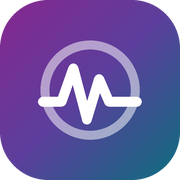
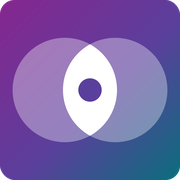
Adopt the new brand kit across the site
Replaces the mark in the header of all eight pages with the Venn logo, the two
overlapping circles of the tracks with the shared core, and swaps the favicon,
the touch icon and the app icon for the versions from the kit. The social
preview image is rebuilt around the horizontal logo. Adds vbd-brand-kit/ to the
repository so that everyone has the source files for slides and social profiles.

diff --git a/index.html b/index.html
@@ -244,16 +244,13 @@
 <header class="site-header">
   <nav class="container nav" aria-label="Main">
     <a class="brand" href="index.html">
-      <svg class="brand__mark" viewBox="0 0 40 40" role="img" aria-label="Vision for Biomedical Discovery logo" focusable="false">
-  <rect width="40" height="40" rx="11" fill="url(#lg)"/>
-  <circle cx="20" cy="20" r="11" fill="none" stroke="#fff" stroke-width="2" opacity=".5"/>
-  <path d="M9.6 22.6h4.1l2.6-7.4 3 11.4 2.7-9 2.2 5h6.2" fill="none" stroke="#fff" stroke-width="2.2" stroke-linecap="round" stroke-linejoin="round"/>
-  <defs>
-    <linearGradient id="lg" x1="0" y1="0" x2="40" y2="40" gradientUnits="userSpaceOnUse">
-      <stop stop-color="#86268f"/><stop offset=".55" stop-color="#5b3f9c"/><stop offset="1" stop-color="#0b6e7d"/>
-    </linearGradient>
-  </defs>
-</svg>
+      <svg class="brand__mark" viewBox="8 36 184 128" role="img" aria-label="Vision for Biomedical Discovery logo" focusable="false">
+        <defs><clipPath id="vbdClip"><circle cx="72" cy="100" r="58"/></clipPath></defs>
+        <circle cx="72" cy="100" r="58" fill="#86268f" opacity=".92"/>
+        <circle cx="128" cy="100" r="58" fill="#0b6e7d" opacity=".92"/>
+        <circle cx="128" cy="100" r="58" fill="#1d3a8a" clip-path="url(#vbdClip)"/>
+        <circle cx="100" cy="100" r="13" fill="#ffffff"/>
+      </svg>
       <span class="brand__text">
         <span class="brand__title">Vision for Biomedical Discovery</span>
         <span class="brand__sub">CVPath + Vision4Neuro &middot; WACV 2027</span>

diff --git a/404.html b/404.html
@@ -50,16 +50,13 @@
 <header class="site-header">
   <nav class="container nav" aria-label="Main">
     <a class="brand" href="index.html">
-      <svg class="brand__mark" viewBox="0 0 40 40" role="img" aria-label="Vision for Biomedical Discovery logo" focusable="false">
-  <rect width="40" height="40" rx="11" fill="url(#lg)"/>
-  <circle cx="20" cy="20" r="11" fill="none" stroke="#fff" stroke-width="2" opacity=".5"/>
-  <path d="M9.6 22.6h4.1l2.6-7.4 3 11.4 2.7-9 2.2 5h6.2" fill="none" stroke="#fff" stroke-width="2.2" stroke-linecap="round" stroke-linejoin="round"/>
-  <defs>
-    <linearGradient id="lg" x1="0" y1="0" x2="40" y2="40" gradientUnits="userSpaceOnUse">
-      <stop stop-color="#86268f"/><stop offset=".55" stop-color="#5b3f9c"/><stop offset="1" stop-color="#0b6e7d"/>
-    </linearGradient>
-  </defs>
-</svg>
+      <svg class="brand__mark" viewBox="8 36 184 128" role="img" aria-label="Vision for Biomedical Discovery logo" focusable="false">
+        <defs><clipPath id="vbdClip"><circle cx="72" cy="100" r="58"/></clipPath></defs>
+        <circle cx="72" cy="100" r="58" fill="#86268f" opacity=".92"/>
+        <circle cx="128" cy="100" r="58" fill="#0b6e7d" opacity=".92"/>
+        <circle cx="128" cy="100" r="58" fill="#1d3a8a" clip-path="url(#vbdClip)"/>
+        <circle cx="100" cy="100" r="13" fill="#ffffff"/>
+      </svg>
       <span class="brand__text">
         <span class="brand__title">Vision for Biomedical Discovery</span>
         <span class="brand__sub">CVPath + Vision4Neuro &middot; WACV 2027</span>

diff --git a/challenge.html b/challenge.html
@@ -68,16 +68,13 @@
 <header class="site-header">
   <nav class="container nav" aria-label="Main">
     <a class="brand" href="index.html">
-      <svg class="brand__mark" viewBox="0 0 40 40" role="img" aria-label="Vision for Biomedical Discovery logo" focusable="false">
-  <rect width="40" height="40" rx="11" fill="url(#lg)"/>
-  <circle cx="20" cy="20" r="11" fill="none" stroke="#fff" stroke-width="2" opacity=".5"/>
-  <path d="M9.6 22.6h4.1l2.6-7.4 3 11.4 2.7-9 2.2 5h6.2" fill="none" stroke="#fff" stroke-width="2.2" stroke-linecap="round" stroke-linejoin="round"/>
-  <defs>
-    <linearGradient id="lg" x1="0" y1="0" x2="40" y2="40" gradientUnits="userSpaceOnUse">
-      <stop stop-color="#86268f"/><stop offset=".55" stop-color="#5b3f9c"/><stop offset="1" stop-color="#0b6e7d"/>
-    </linearGradient>
-  </defs>
-</svg>
+      <svg class="brand__mark" viewBox="8 36 184 128" role="img" aria-label="Vision for Biomedical Discovery logo" focusable="false">
+        <defs><clipPath id="vbdClip"><circle cx="72" cy="100" r="58"/></clipPath></defs>
+        <circle cx="72" cy="100" r="58" fill="#86268f" opacity=".92"/>
+        <circle cx="128" cy="100" r="58" fill="#0b6e7d" opacity=".92"/>
+        <circle cx="128" cy="100" r="58" fill="#1d3a8a" clip-path="url(#vbdClip)"/>
+        <circle cx="100" cy="100" r="13" fill="#ffffff"/>
+      </svg>
       <span class="brand__text">
         <span class="brand__title">Vision for Biomedical Discovery</span>
         <span class="brand__sub">CVPath + Vision4Neuro &middot; WACV 2027</span>

diff --git a/cvpath.html b/cvpath.html
@@ -68,16 +68,13 @@
 <header class="site-header">
   <nav class="container nav" aria-label="Main">
     <a class="brand" href="index.html">
-      <svg class="brand__mark" viewBox="0 0 40 40" role="img" aria-label="Vision for Biomedical Discovery logo" focusable="false">
-  <rect width="40" height="40" rx="11" fill="url(#lg)"/>
-  <circle cx="20" cy="20" r="11" fill="none" stroke="#fff" stroke-width="2" opacity=".5"/>
-  <path d="M9.6 22.6h4.1l2.6-7.4 3 11.4 2.7-9 2.2 5h6.2" fill="none" stroke="#fff" stroke-width="2.2" stroke-linecap="round" stroke-linejoin="round"/>
-  <defs>
-    <linearGradient id="lg" x1="0" y1="0" x2="40" y2="40" gradientUnits="userSpaceOnUse">
-      <stop stop-color="#86268f"/><stop offset=".55" stop-color="#5b3f9c"/><stop offset="1" stop-color="#0b6e7d"/>
-    </linearGradient>
-  </defs>
-</svg>
+      <svg class="brand__mark" viewBox="8 36 184 128" role="img" aria-label="Vision for Biomedical Discovery logo" focusable="false">
+        <defs><clipPath id="vbdClip"><circle cx="72" cy="100" r="58"/></clipPath></defs>
+        <circle cx="72" cy="100" r="58" fill="#86268f" opacity=".92"/>
+        <circle cx="128" cy="100" r="58" fill="#0b6e7d" opacity=".92"/>
+        <circle cx="128" cy="100" r="58" fill="#1d3a8a" clip-path="url(#vbdClip)"/>
+        <circle cx="100" cy="100" r="13" fill="#ffffff"/>
+      </svg>
       <span class="brand__text">
         <span class="brand__title">Vision for Biomedical Discovery</span>
         <span class="brand__sub">CVPath + Vision4Neuro &middot; WACV 2027</span>

diff --git a/organizers.html b/organizers.html
@@ -68,16 +68,13 @@
 <header class="site-header">
   <nav class="container nav" aria-label="Main">
     <a class="brand" href="index.html">
-      <svg class="brand__mark" viewBox="0 0 40 40" role="img" aria-label="Vision for Biomedical Discovery logo" focusable="false">
-  <rect width="40" height="40" rx="11" fill="url(#lg)"/>
-  <circle cx="20" cy="20" r="11" fill="none" stroke="#fff" stroke-width="2" opacity=".5"/>
-  <path d="M9.6 22.6h4.1l2.6-7.4 3 11.4 2.7-9 2.2 5h6.2" fill="none" stroke="#fff" stroke-width="2.2" stroke-linecap="round" stroke-linejoin="round"/>
-  <defs>
-    <linearGradient id="lg" x1="0" y1="0" x2="40" y2="40" gradientUnits="userSpaceOnUse">
-      <stop stop-color="#86268f"/><stop offset=".55" stop-color="#5b3f9c"/><stop offset="1" stop-color="#0b6e7d"/>
-    </linearGradient>
-  </defs>
-</svg>
+      <svg class="brand__mark" viewBox="8 36 184 128" role="img" aria-label="Vision for Biomedical Discovery logo" focusable="false">
+        <defs><clipPath id="vbdClip"><circle cx="72" cy="100" r="58"/></clipPath></defs>
+        <circle cx="72" cy="100" r="58" fill="#86268f" opacity=".92"/>
+        <circle cx="128" cy="100" r="58" fill="#0b6e7d" opacity=".92"/>
+        <circle cx="128" cy="100" r="58" fill="#1d3a8a" clip-path="url(#vbdClip)"/>
+        <circle cx="100" cy="100" r="13" fill="#ffffff"/>
+      </svg>
       <span class="brand__text">
         <span class="brand__title">Vision for Biomedical Discovery</span>
         <span class="brand__sub">CVPath + Vision4Neuro &middot; WACV 2027</span>

diff --git a/program.html b/program.html
@@ -68,16 +68,13 @@
 <header class="site-header">
   <nav class="container nav" aria-label="Main">
     <a class="brand" href="index.html">
-      <svg class="brand__mark" viewBox="0 0 40 40" role="img" aria-label="Vision for Biomedical Discovery logo" focusable="false">
-  <rect width="40" height="40" rx="11" fill="url(#lg)"/>
-  <circle cx="20" cy="20" r="11" fill="none" stroke="#fff" stroke-width="2" opacity=".5"/>
-  <path d="M9.6 22.6h4.1l2.6-7.4 3 11.4 2.7-9 2.2 5h6.2" fill="none" stroke="#fff" stroke-width="2.2" stroke-linecap="round" stroke-linejoin="round"/>
-  <defs>
-    <linearGradient id="lg" x1="0" y1="0" x2="40" y2="40" gradientUnits="userSpaceOnUse">
-      <stop stop-color="#86268f"/><stop offset=".55" stop-color="#5b3f9c"/><stop offset="1" stop-color="#0b6e7d"/>
-    </linearGradient>
-  </defs>
-</svg>
+      <svg class="brand__mark" viewBox="8 36 184 128" role="img" aria-label="Vision for Biomedical Discovery logo" focusable="false">
+        <defs><clipPath id="vbdClip"><circle cx="72" cy="100" r="58"/></clipPath></defs>
+        <circle cx="72" cy="100" r="58" fill="#86268f" opacity=".92"/>
+        <circle cx="128" cy="100" r="58" fill="#0b6e7d" opacity=".92"/>
+        <circle cx="128" cy="100" r="58" fill="#1d3a8a" clip-path="url(#vbdClip)"/>
+        <circle cx="100" cy="100" r="13" fill="#ffffff"/>
+      </svg>
       <span class="brand__text">
         <span class="brand__title">Vision for Biomedical Discovery</span>
         <span class="brand__sub">CVPath + Vision4Neuro &middot; WACV 2027</span>

diff --git a/speakers.html b/speakers.html
@@ -68,16 +68,13 @@
 <header class="site-header">
   <nav class="container nav" aria-label="Main">
     <a class="brand" href="index.html">
-      <svg class="brand__mark" viewBox="0 0 40 40" role="img" aria-label="Vision for Biomedical Discovery logo" focusable="false">
-  <rect width="40" height="40" rx="11" fill="url(#lg)"/>
-  <circle cx="20" cy="20" r="11" fill="none" stroke="#fff" stroke-width="2" opacity=".5"/>
-  <path d="M9.6 22.6h4.1l2.6-7.4 3 11.4 2.7-9 2.2 5h6.2" fill="none" stroke="#fff" stroke-width="2.2" stroke-linecap="round" stroke-linejoin="round"/>
-  <defs>
-    <linearGradient id="lg" x1="0" y1="0" x2="40" y2="40" gradientUnits="userSpaceOnUse">
-      <stop stop-color="#86268f"/><stop offset=".55" stop-color="#5b3f9c"/><stop offset="1" stop-color="#0b6e7d"/>
-    </linearGradient>
-  </defs>
-</svg>
+      <svg class="brand__mark" viewBox="8 36 184 128" role="img" aria-label="Vision for Biomedical Discovery logo" focusable="false">
+        <defs><clipPath id="vbdClip"><circle cx="72" cy="100" r="58"/></clipPath></defs>
+        <circle cx="72" cy="100" r="58" fill="#86268f" opacity=".92"/>
+        <circle cx="128" cy="100" r="58" fill="#0b6e7d" opacity=".92"/>
+        <circle cx="128" cy="100" r="58" fill="#1d3a8a" clip-path="url(#vbdClip)"/>
+        <circle cx="100" cy="100" r="13" fill="#ffffff"/>
+      </svg>
       <span class="brand__text">
         <span class="brand__title">Vision for Biomedical Discovery</span>
         <span class="brand__sub">CVPath + Vision4Neuro &middot; WACV 2027</span>

diff --git a/vision4neuro.html b/vision4neuro.html
@@ -68,16 +68,13 @@
 <header class="site-header">
   <nav class="container nav" aria-label="Main">
     <a class="brand" href="index.html">
-      <svg class="brand__mark" viewBox="0 0 40 40" role="img" aria-label="Vision for Biomedical Discovery logo" focusable="false">
-  <rect width="40" height="40" rx="11" fill="url(#lg)"/>
-  <circle cx="20" cy="20" r="11" fill="none" stroke="#fff" stroke-width="2" opacity=".5"/>
-  <path d="M9.6 22.6h4.1l2.6-7.4 3 11.4 2.7-9 2.2 5h6.2" fill="none" stroke="#fff" stroke-width="2.2" stroke-linecap="round" stroke-linejoin="round"/>
-  <defs>
-    <linearGradient id="lg" x1="0" y1="0" x2="40" y2="40" gradientUnits="userSpaceOnUse">
-      <stop stop-color="#86268f"/><stop offset=".55" stop-color="#5b3f9c"/><stop offset="1" stop-color="#0b6e7d"/>
-    </linearGradient>
-  </defs>
-</svg>
+      <svg class="brand__mark" viewBox="8 36 184 128" role="img" aria-label="Vision for Biomedical Discovery logo" focusable="false">
+        <defs><clipPath id="vbdClip"><circle cx="72" cy="100" r="58"/></clipPath></defs>
+        <circle cx="72" cy="100" r="58" fill="#86268f" opacity=".92"/>
+        <circle cx="128" cy="100" r="58" fill="#0b6e7d" opacity=".92"/>
+        <circle cx="128" cy="100" r="58" fill="#1d3a8a" clip-path="url(#vbdClip)"/>
+        <circle cx="100" cy="100" r="13" fill="#ffffff"/>
+      </svg>
       <span class="brand__text">
         <span class="brand__title">Vision for Biomedical Discovery</span>
         <span class="brand__sub">CVPath + Vision4Neuro &middot; WACV 2027</span>

diff --git a/assets/css/styles.css b/assets/css/styles.css
@@ -184,7 +184,7 @@ p + p { margin-top: 1em; }
 }
 .nav { display: flex; align-items: center; gap: 16px; min-height: var(--nav-h); }
 .brand { display: flex; align-items: center; gap: 11px; text-decoration: none; color: var(--ink); flex: 0 1 auto; min-width: 0; }
-.brand__mark { width: 34px; height: 34px; flex: 0 0 auto; }
+.brand__mark { width: 44px; height: auto; flex: 0 0 auto; }
 .brand__text { display: flex; flex-direction: column; line-height: 1.14; min-width: 0; }
 .brand__title { font-family: var(--font-serif); font-weight: 600; font-size: 1.02rem; letter-spacing: -.01em; white-space: nowrap; overflow: hidden; text-overflow: ellipsis; }
 .brand__sub { font-size: .66rem; letter-spacing: .1em; text-transform: uppercase; color: var(--ink-3); font-weight: 600; }
@@ -236,7 +236,7 @@ p + p { margin-top: 1em; }
 @media (max-width: 400px) {
   .brand__sub { display: none; }
   .brand__title { font-size: .84rem; white-space: normal; line-height: 1.15; }
-  .brand__mark { width: 30px; height: 30px; }
+  .brand__mark { width: 36px; height: auto; }
   .container { padding-inline: 18px; }
 }
 
